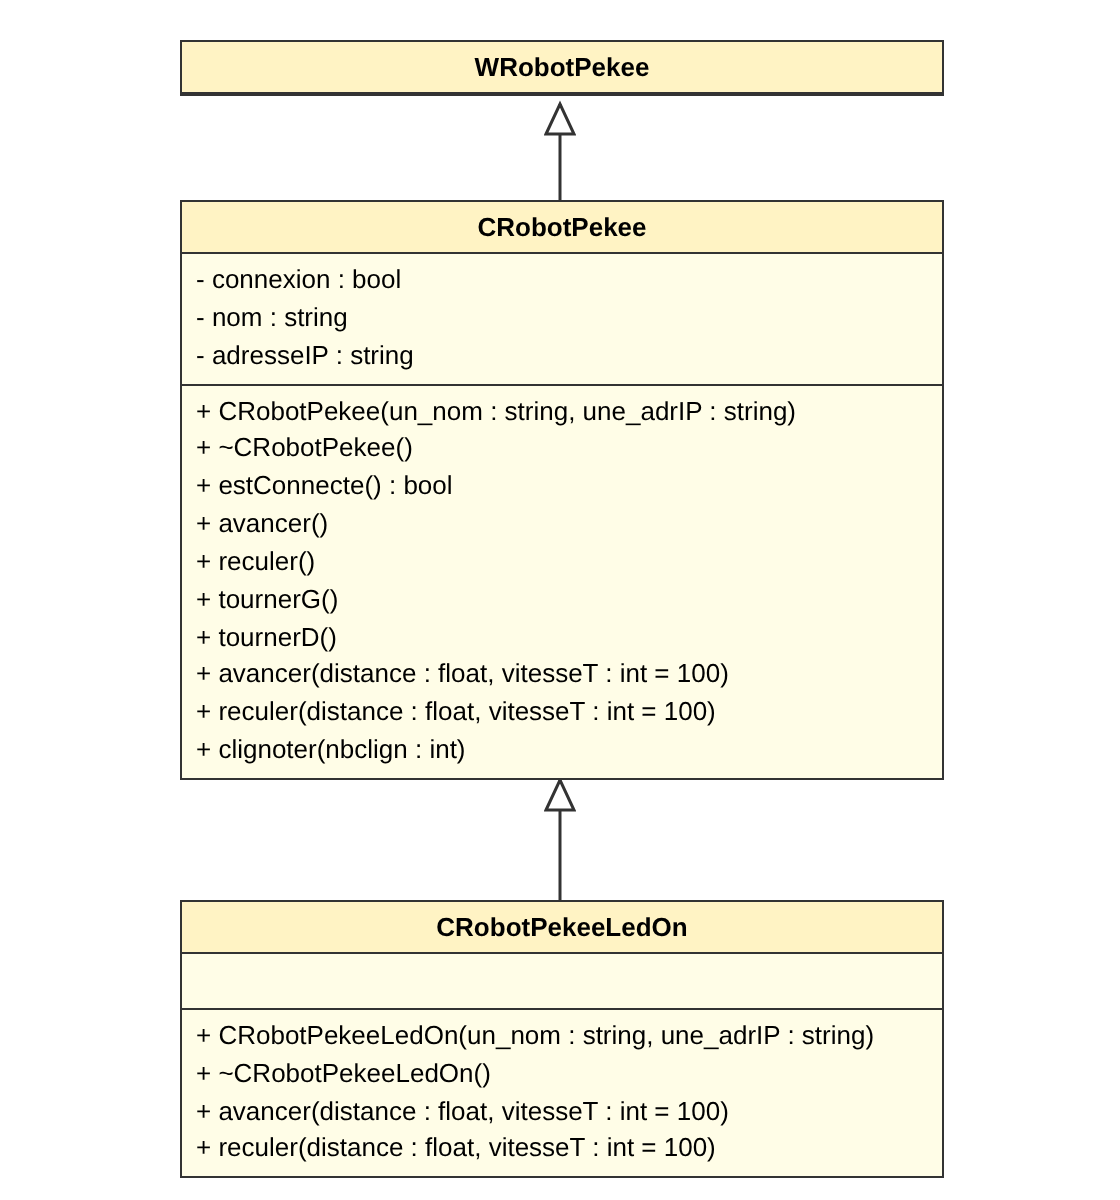
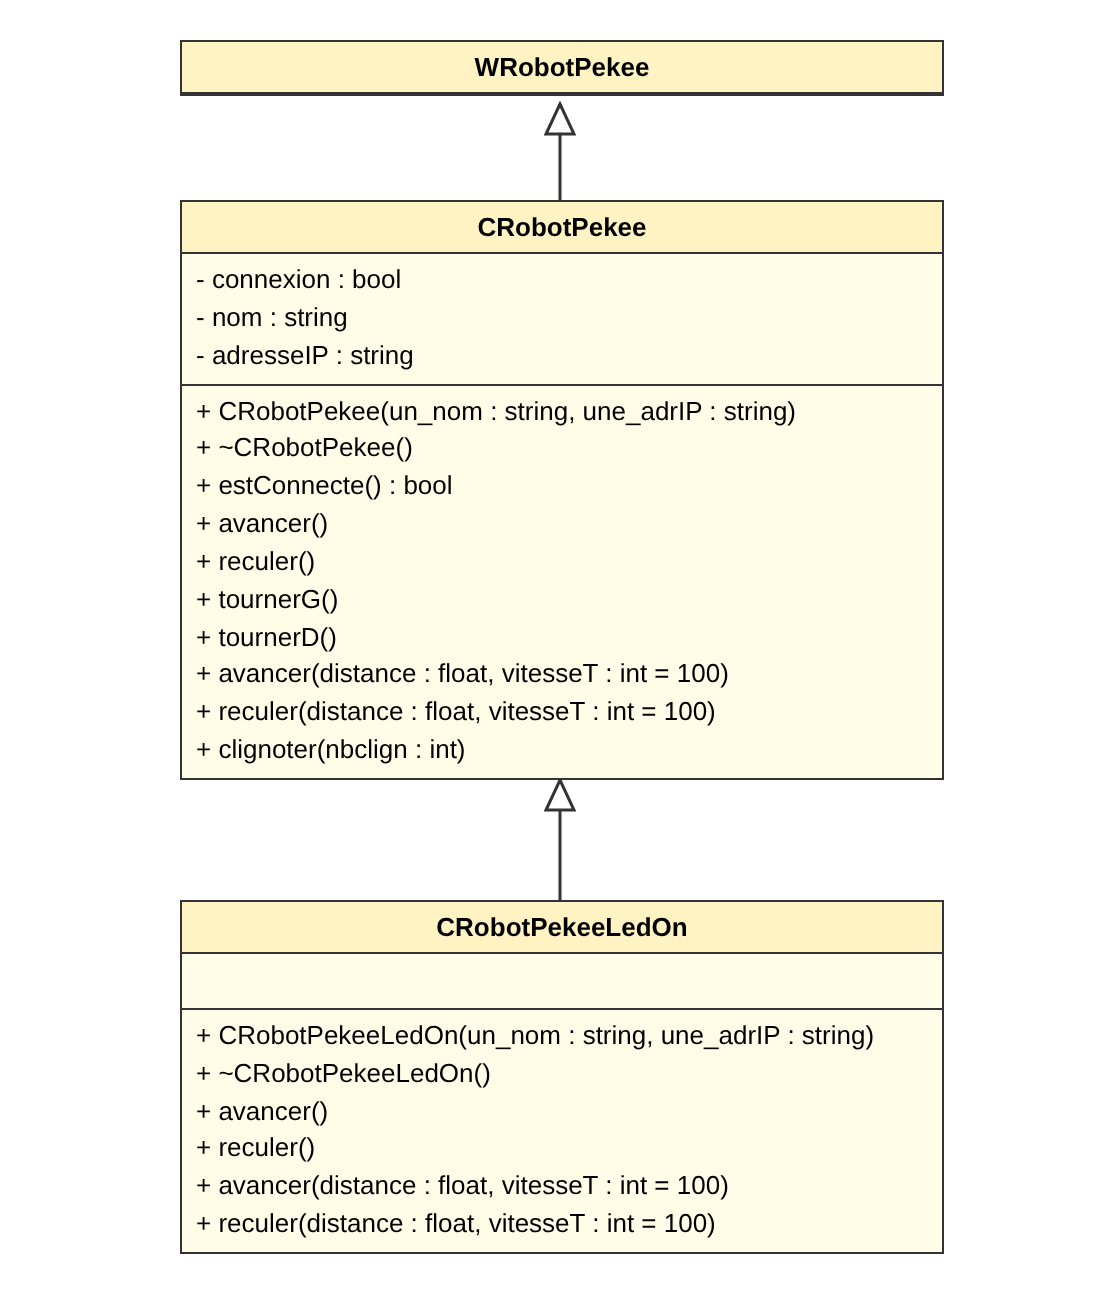
CRobotPekeeLedOn : ajout de avancer() et reculer() avec la led, 5 fiches de TU
Claude-Session: https://claude.ai/code/session_01SKUbbYFBJfdDadXvm37YQi

Changed region(s): [[0.1562, 0.1542, 0.8438, 0.9867], [0.1562, 0.0308, 0.8438, 0.1233]]

diff --git a/sprint3/TU_CRobotPekeeLedOn.cpp b/sprint3/TU_CRobotPekeeLedOn.cpp
@@ -37,15 +37,25 @@ int main(void)
 			cout << "**************************" << endl << endl;
 
 			cout << "Que doit faire le robot ?" << endl;
-			cout << "1 - Avancer sur une distance" << endl;
-			cout << "2 - Reculer sur une distance" << endl;
+			cout << "1 - Avancer" << endl;
+			cout << "2 - Reculer" << endl;
+			cout << "3 - Avancer sur une distance" << endl;
+			cout << "4 - Reculer sur une distance" << endl;
 			cout << "0 - Fin commande du robot" << endl;
 
 			cin >> rep;
 
 			switch (rep)
 			{
-			case 1: // AVANCER sur une distance
+			case 1: // AVANCER
+				robot.avancer();
+				break;
+
+			case 2: // RECULER
+				robot.reculer();
+				break;
+
+			case 3: // AVANCER sur une distance
 				cout << "Quelle distance ? ";
 				cin >> distance;
 				cout << "Quelle vitesse ? ";
@@ -53,7 +63,7 @@ int main(void)
 				robot.avancer(distance, vitesse);
 				break;
 
-			case 2: // RECULER sur une distance
+			case 4: // RECULER sur une distance
 				cout << "Quelle distance ? ";
 				cin >> distance;
 				cout << "Quelle vitesse ? ";

diff --git a/sprint3/CRobotPekeeLedOn.cpp b/sprint3/CRobotPekeeLedOn.cpp
@@ -35,6 +35,44 @@ CRobotPekeeLedOn::~CRobotPekeeLedOn(void)
 
 /*!
 * @fn avancer
+* @brief Moves the robot forward with the led on.
+* The led is switched off at the end of the move.
+*
+*/
+void CRobotPekeeLedOn::avancer()
+{
+	// on allume la led
+	this->LedOn();
+
+	// on avance avec la methode de la classe mere
+	CRobotPekee::avancer();
+	this->SetSpeed(0, 0);
+
+	// on eteint la led a la fin du deplacement
+	this->LedOff();
+}
+
+/*!
+* @fn reculer
+* @brief Moves the robot backward with the led on.
+* The led is switched off at the end of the move.
+*
+*/
+void CRobotPekeeLedOn::reculer()
+{
+	// on allume la led
+	this->LedOn();
+
+	// on recule avec la methode de la classe mere
+	CRobotPekee::reculer();
+	this->SetSpeed(0, 0);
+
+	// on eteint la led a la fin du deplacement
+	this->LedOff();
+}
+
+/*!
+* @fn avancer
 * @brief Moves the robot forward over a distance with the led on.
 * The led is switched off at the end of the move.
 * @param[in] distance : distance to travel

diff --git a/sprint3/CRobotPekeeLedOn.h b/sprint3/CRobotPekeeLedOn.h
@@ -37,6 +37,22 @@ CRobotPekeeLedOn(string un_nom, string une_adrIP);
 
 /*!
 * @fn avancer
+* @brief Moves the robot forward with the led on.
+* The led is switched off at the end of the move.
+*
+*/
+void avancer();
+
+/*!
+* @fn reculer
+* @brief Moves the robot backward with the led on.
+* The led is switched off at the end of the move.
+*
+*/
+void reculer();
+
+/*!
+* @fn avancer
 * @brief Moves the robot forward over a distance with the led on.
 * The led is switched off at the end of the move.
 * @param[in] distance : distance to travel
